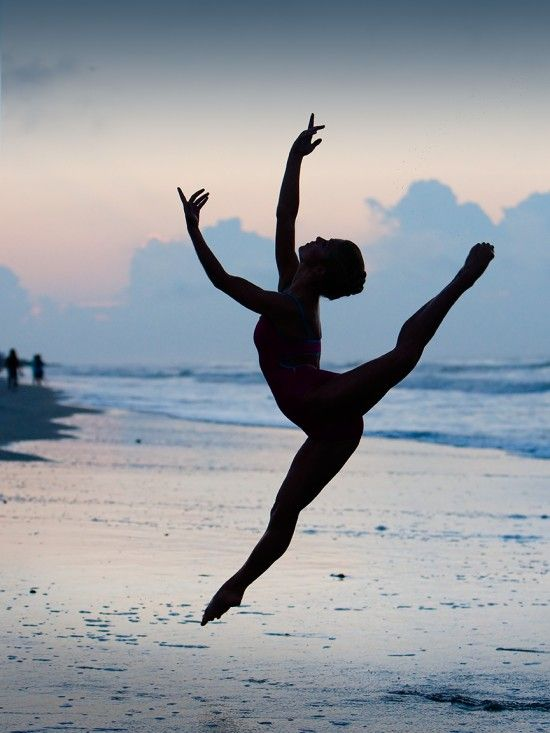
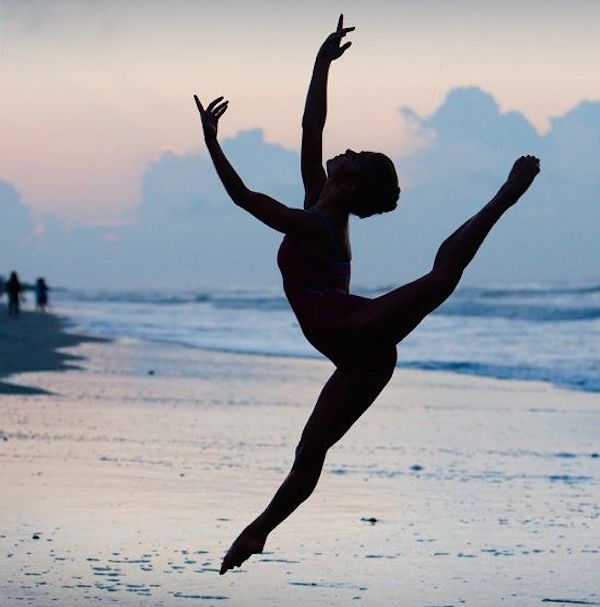
Add Post Css

diff --git a/app/assets/stylesheets/static_pages.scss b/app/assets/stylesheets/static_pages.scss
@@ -2,14 +2,15 @@
 // They will automatically be included in application.css.
 // You can use Sass (SCSS) here: http://sass-lang.com/
 
-html, body, section, article, div, label, input, form,
-h1, h2, h3, p, ul, strong, em, a {
+html, body, section, article, div, label, input, form, header,
+h1, h2, h3, p, ul, strong, em, a, li {
   margin: 0;
   border: 0;
   padding: 0;
   outline: 0;
   box-sizing: inherit;
   font: inherit;
+  font-family: inherit;
   text-decoration: inherit;
   // text-align: inherit;
   color: inherit;
@@ -28,4 +29,11 @@ h1, h2, h3, p, ul, strong, em, a {
   width: auto;
   height: auto;
   background: #fafafa;
+}
+
+body {
+  font-family: "proxima-nova", "Neue Helvetica", sans-serif;
+  font-size: 14px;
+  background: #fafafa;
+  color: #262626;
 }

diff --git a/app/assets/stylesheets/posts.scss b/app/assets/stylesheets/posts.scss
@@ -1,0 +1,38 @@
+.post-feed-list {
+  list-style: none;
+}
+
+
+.post-container {
+  display: flex;
+  list-style: none;
+  flex-direction: column;
+  align-items: center;
+  // justify-content: flex-start;;
+  // CHange this later
+  width: 600px;
+  max-height: 900px;
+  border: 1px solid #efefef;
+
+  .post-header {
+    display: flex;
+    flex-direction: row;
+    align-items: center;
+    min-height: 60px;
+    width: 100%;
+    a {
+      margin-right: auto;
+      margin-left: 20px;
+      font-weight: bold;
+      color: #262626
+    }
+
+    p {
+      margin-left: auto;
+      margin-right: 20px;
+      color: #999;
+    }
+
+  }
+
+}

diff --git a/frontend/components/posts/post_feed_item.jsx b/frontend/components/posts/post_feed_item.jsx
@@ -20,9 +20,9 @@ const PostFeedItem = React.createClass({
 
     return(
       <li className="post-container">
-        <header>
+        <header className="post-header">
           <Link to={`users/${this.props.post.userId}`} className="post-header-username">{this.props.post.username}</ Link>
-          <a className="post-header-date">{this.props.post.createdAt}</a>
+          <p className="post-header-date">{this.props.post.createdAt}</p>
         </header>
         <div className="post-item-image-container">
           <img src={this.props.post.image_url} />

diff --git a/app/models/post.rb b/app/models/post.rb
@@ -1,8 +1,8 @@
 class Post < ActiveRecord::Base
   validates :description, :user_id, presence: true
 
-  has_attached_file :image, default_url: "dancer.jpg"
-  has_attached_file :image, styles: {medium: "600x600>", thumb: "100x100>" }, default_url: "dancer.jpg"
+  # has_attached_file :image, default_url: "dancer.jpg"
+  has_attached_file :image, styles: {medium: "600x600#", thumb: "100x100>" }, default_url: "dancer.jpg"
   validates_attachment_content_type :image, content_type: /\Aimage\/.*\Z/
 
   belongs_to :user
